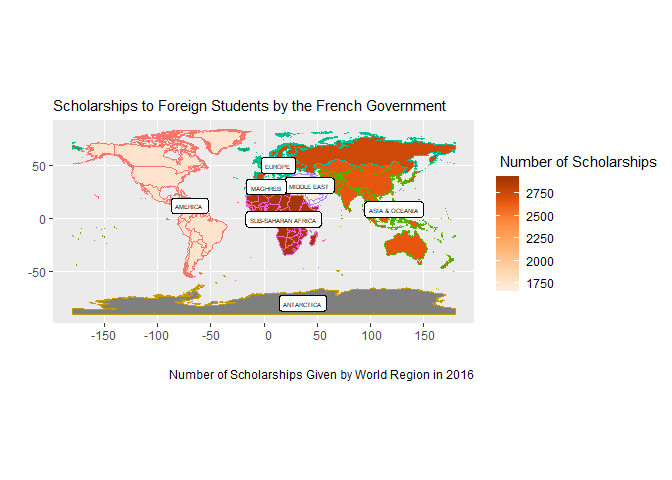
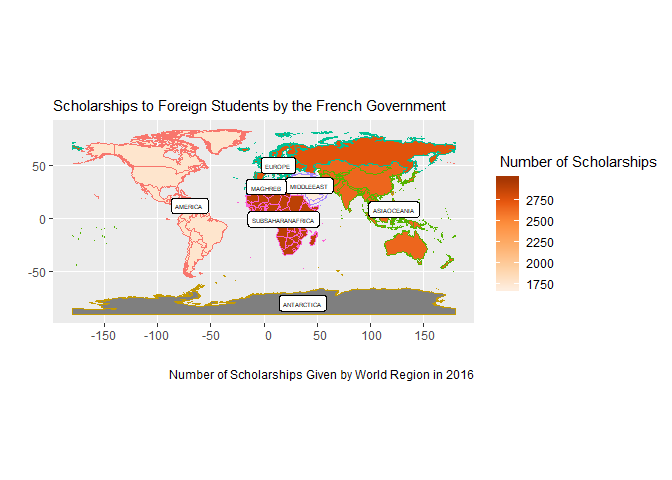
cleaned up code with tidyr/dplyr

diff --git a/FrenchScholarships.md b/FrenchScholarships.md
@@ -160,27 +160,17 @@ Middle East: 145 (+ Iran) EUR: 39,151,154,155 Maghreb: 15+Egypt+Sudan AfSubS: 11
 
 ``` r
 myRegions <- myRegions %>%
-        mutate(Regions = case_when
-               (SUBREGION == 0 ~ "Antarctica", 
-                SUBREGION %in% c(39,151, 154, 155) ~ "Europe",
-                (SUBREGION  == 15 & NAME != "Egypt" & NAME !="Sudan") ~ "Maghreb",
-                SUBREGION %in% c(30, 34, 35, 53, 54, 57, 61, 143) ~ "Asia & Oceania",
-                SUBREGION %in% c(5, 13, 21, 29) ~ "America",
+        mutate(Regions_schol = case_when
+               (SUBREGION == 0 ~ "Antarctica_NA", 
+                SUBREGION %in% c(39,151, 154, 155) ~ "Europe_2755",
+                (SUBREGION  == 15 & NAME != "Egypt" & NAME !="Sudan") ~ "Maghreb_2997",
+                SUBREGION %in% c(30, 34, 35, 53, 54, 57, 61, 143) ~ "AsiaOceania_2662",
+                SUBREGION %in% c(5, 13, 21, 29) ~ "America_1770",
                 (SUBREGION == 145 | NAME=="Iran (Islamic Republic of)"
-                 | NAME == "Egypt") ~ "Middle East", 
-                SUBREGION %in% c(11, 14, 17, 18) ~ "Sub-Saharan Africa",
-                       NAME == "Sudan" ~ "Sub-Saharan Africa"
-                       ))
-
-#Now we add the 2011 figures for those regions as those are the ones we want to map.
-myRegions$schol <- myRegions$Regions
-myRegions$schol[myRegions$schol == "Europe"]<- 2755
-myRegions$schol[myRegions$schol == "Middle East"]<- 1697
-myRegions$schol[myRegions$schol == "Maghreb"]<- 2897
-myRegions$schol[myRegions$schol == "Sub-Saharan Africa"]<- 2906
-myRegions$schol[myRegions$schol == "Asia & Oceania"]<- 2662
-myRegions$schol[myRegions$schol == "America"]<- 1770
-myRegions$schol[myRegions$schol == "Antarctica"]<- NA
+                 | NAME == "Egypt")  ~ "MiddleEast_1697", 
+                SUBREGION %in% c(11, 14, 17, 18) | NAME == "Sudan" ~ "SubSaharanAfrica_2906"
+                 )) %>%
+                separate(Regions_schol, c("Regions", "schol")) 
 ```
 
 Now, let's do a map.
@@ -194,7 +184,7 @@ myRegions_notRegrouped <- myRegions
 myRegions <- myRegions %>%
         group_by(Regions) %>%
         mutate(LON = mean(LON), LAT = mean(LAT),
-               LON = case_when(Regions == "Asia & Oceania" ~ LON+50, TRUE  ~ LON),
+               LON = case_when(Regions == "AsiaOceania" ~ LON+50, TRUE  ~ LON),
                LAT = case_when(Regions == "Antarctica" ~ LAT-50, TRUE ~ LAT))
 ```
 
